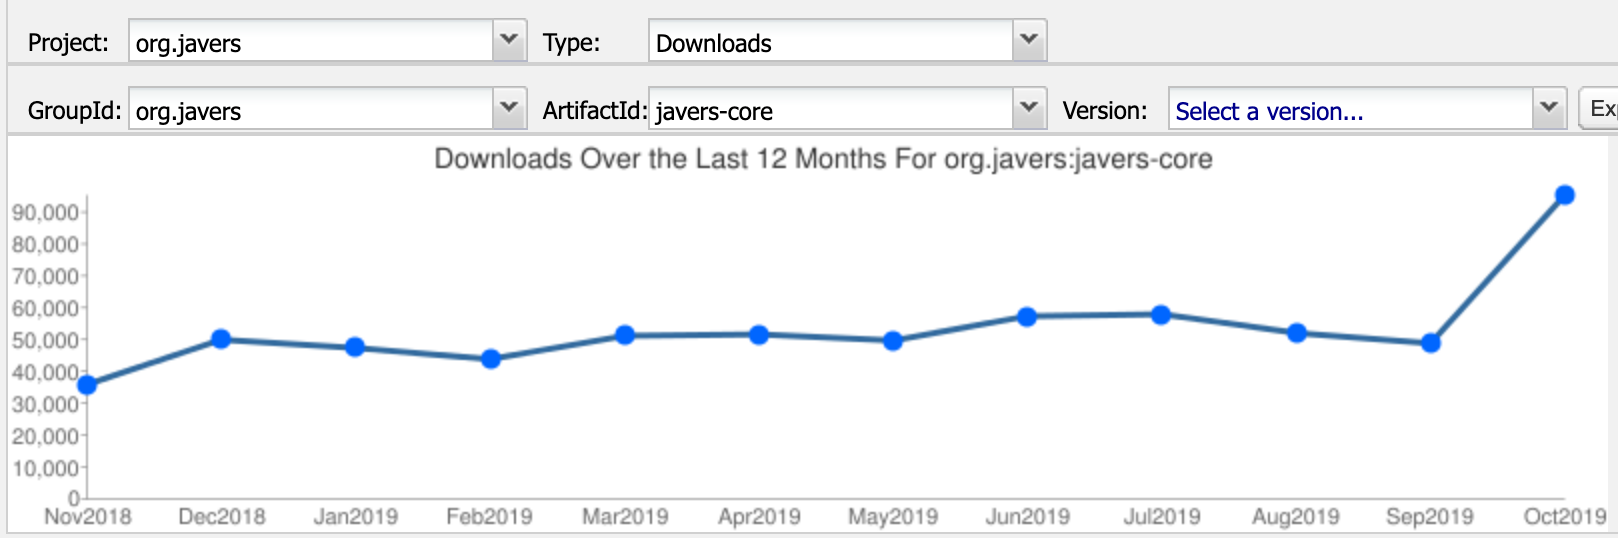
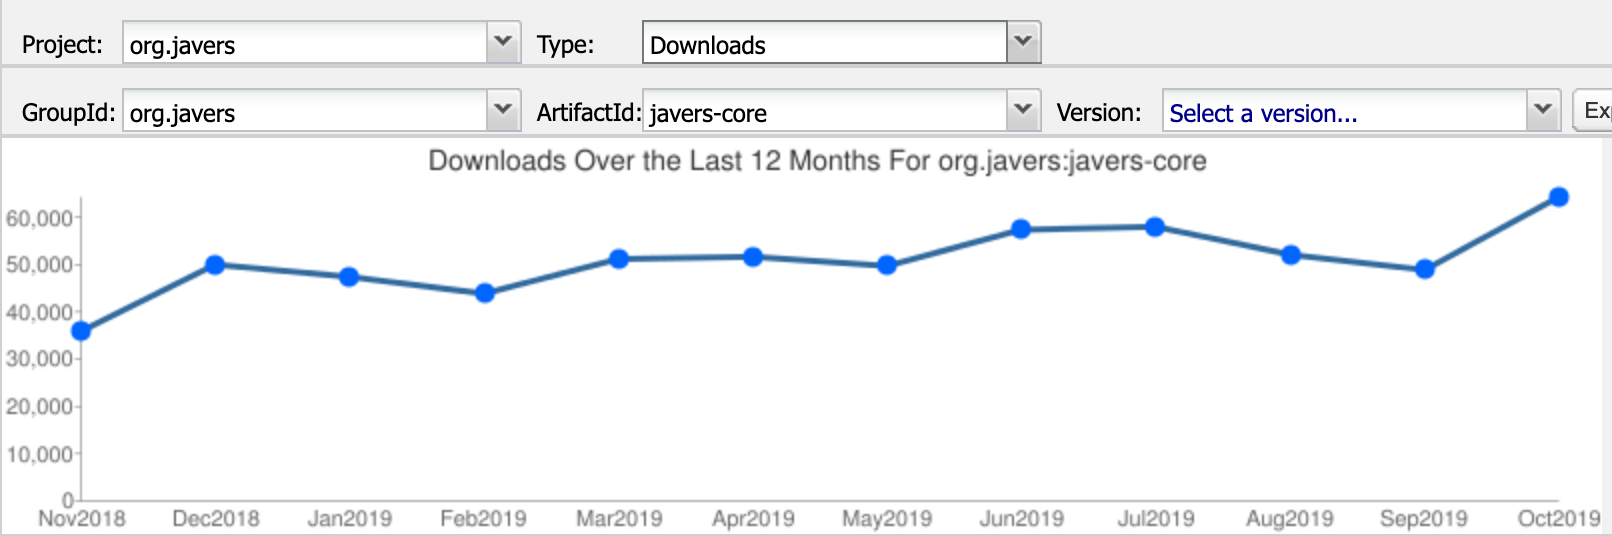
stats update

Changed region(s): [[0.0, 0.3284, 1.0, 1.0], [0.0, 0.0299, 1.0, 0.3284]]

diff --git a/sponsorship.md b/sponsorship.md
@@ -7,7 +7,7 @@ category: page_center
 JaVers is an Apache-licensed open source project and it’s completely free to use.
  
 JaVers is gaining momentum, the number of downloads from The Central is growing.
-In October 2019, `javers-core` was downloaded 90,000 times.
+In October 2019, `javers-core` was downloaded 60,000 times.
  
 {% include fancy-image.html image="/img/javers-downloads-2019-10.png" alt="downloads from The Central chart" %}
 
